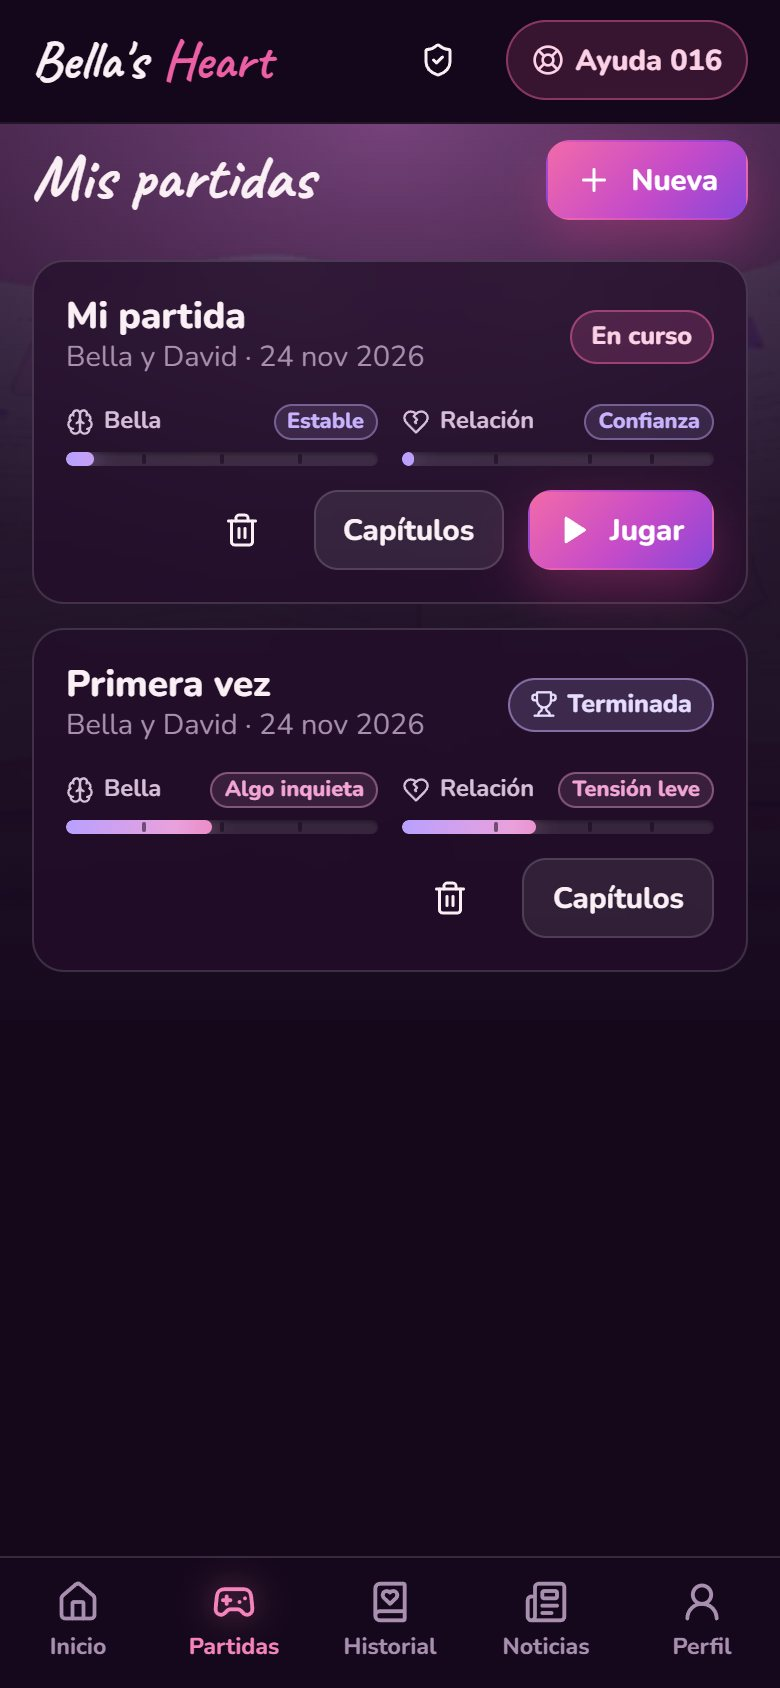
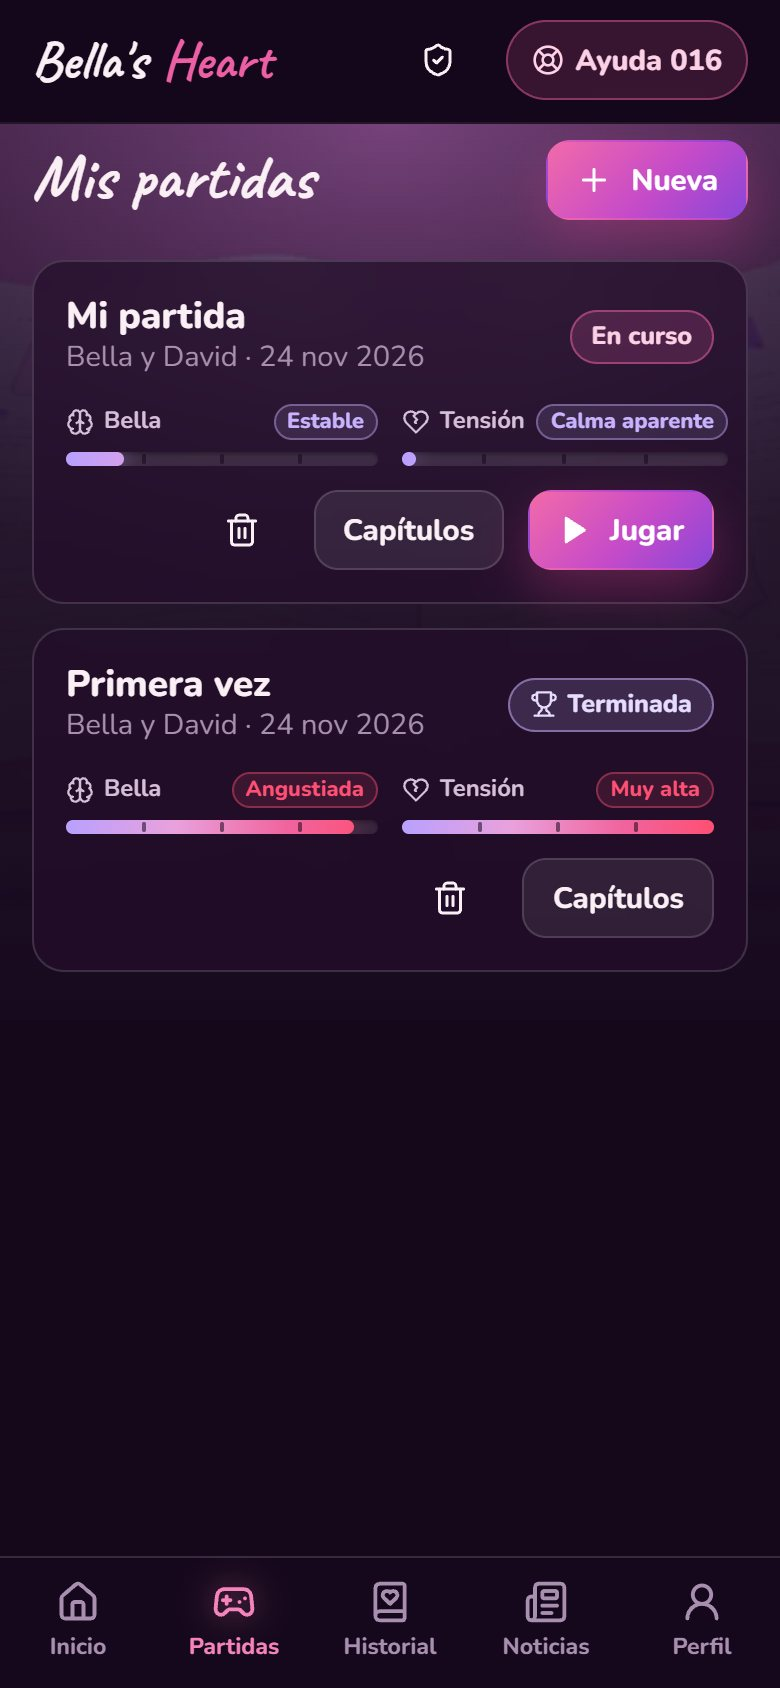
Ramas según cómo juega Bella y final según su malestar
- Migración 004: intercambia las ramas de los capítulos 6-8 (protegerse lleva a 6.1/7.1/8.1, ceder a 6.4/7.4/8.4) y el final pasa a depender del malestar de Bella (nueva columna branch_metric y función branch_state).
- La barra «Relación» pasa a «Tensión con David» (Calma aparente, Tensión leve, Tensión alta, Muy alta).
- README y capturas actualizados; caché de la historia en v3.

diff --git a/src/components/StateMeters.tsx b/src/components/StateMeters.tsx
@@ -11,8 +11,8 @@ import {
 } from '../lib/states';
 
 /**
- * Cómo está Bella y cómo está la relación. Más relleno = peor
- * (en el juego original, los puntos suman malestar y tensión).
+ * Malestar de Bella y tensión con David. Más relleno = más malestar o más choque.
+ * La tensión sube también cuando Bella pone límites: no es «peor» en sí misma.
  * El relleno va de lavanda a frambuesa y las marcas indican dónde cambia el estado.
  */
 export function StateMeters({ pointsM, pointsR, compact }: { pointsM: number; pointsR: number; compact?: boolean }) {
@@ -20,7 +20,13 @@ export function StateMeters({ pointsM, pointsR, compact }: { pointsM: number; po
   const rel = RELATION_INFO[relationState(pointsR)];
   const items = [
     { key: 'm', icon: <Brain size={compact ? 14 : 17} />, title: 'Bella', info: psych, value: meterPercent(pointsM, PSYCH_THRESHOLDS) },
-    { key: 'r', icon: <HeartCrack size={compact ? 14 : 17} />, title: 'Relación', info: rel, value: meterPercent(pointsR, RELATION_THRESHOLDS) },
+    {
+      key: 'r',
+      icon: <HeartCrack size={compact ? 14 : 17} />,
+      title: compact ? 'Tensión' : 'Tensión con David',
+      info: rel,
+      value: meterPercent(pointsR, RELATION_THRESHOLDS),
+    },
   ];
   return (
     <div className={`meters ${compact ? 'meters-compact' : ''}`}>

diff --git a/src/lib/states.ts b/src/lib/states.ts
@@ -42,11 +42,15 @@ export const PSYCH_INFO: Record<PsychState, StateInfo> = {
   DISTRESSED: { label: 'Angustiada', short: 'Angustiada', color: LEVEL_COLORS[3], level: 3 },
 };
 
+/**
+ * Tensión con David: cuánto choca Bella con él. Sube cuando ella pone límites o se protege,
+ * así que no mide lo «sana» que es la relación (eso lo dice el malestar de Bella).
+ */
 export const RELATION_INFO: Record<RelationState, StateInfo> = {
-  CONFIDENT: { label: 'Confianza', short: 'Confianza', color: LEVEL_COLORS[0], level: 0 },
-  LOW_TENSION: { label: 'Tensión leve', short: 'Tensión leve', color: LEVEL_COLORS[1], level: 1 },
-  HIGH_TENSION: { label: 'Tensión alta', short: 'Tensión alta', color: LEVEL_COLORS[2], level: 2 },
-  CRITICAL: { label: 'Crítica', short: 'Crítica', color: LEVEL_COLORS[3], level: 3 },
+  CONFIDENT: { label: 'Calma aparente', short: 'Calma', color: LEVEL_COLORS[0], level: 0 },
+  LOW_TENSION: { label: 'Tensión leve', short: 'Leve', color: LEVEL_COLORS[1], level: 1 },
+  HIGH_TENSION: { label: 'Tensión alta', short: 'Alta', color: LEVEL_COLORS[2], level: 2 },
+  CRITICAL: { label: 'Muy alta', short: 'Muy alta', color: LEVEL_COLORS[3], level: 3 },
 };
 
 /** En la barra, cada estado ocupa una cuarta parte: las marcas quedan al 25 %, 50 % y 75 %. */

diff --git a/src/pages/Play.tsx b/src/pages/Play.tsx
@@ -427,7 +427,7 @@ function EndCard({ game }: { game: Game }) {
         <Trophy size={40} color="var(--warn)" style={{ margin: '0 auto' }} />
         <h2 className="title-lg" style={{ textAlign: 'center' }}>Fin de la historia</h2>
         <p className="muted" style={{ textAlign: 'center' }}>
-          Bella termina <strong style={{ color: psych.color }}>{psych.label.toLowerCase()}</strong> y la relación en estado{' '}
+          Bella termina <strong style={{ color: psych.color }}>{psych.label.toLowerCase()}</strong>. Tensión con David:{' '}
           <strong style={{ color: rel.color }}>{rel.label.toLowerCase()}</strong>. Cada decisión cuenta: en la vida real, reconocer
           las señales a tiempo también.
         </p>

diff --git a/src/pages/NewGame.tsx b/src/pages/NewGame.tsx
@@ -77,7 +77,7 @@ export function StoryDetail() {
         <div className="stack">
           <p>{story.description}</p>
           <p className="faint">
-            <BookOpen size={15} style={{ verticalAlign: '-3px' }} /> Introducción y capítulos con distintos caminos según cómo evolucione la relación.
+            <BookOpen size={15} style={{ verticalAlign: '-3px' }} /> Introducción y capítulos con distintos caminos según tus decisiones.
           </p>
         </div>
         <form className="form" onSubmit={submit}>

diff --git a/src/pages/Historial.tsx b/src/pages/Historial.tsx
@@ -17,7 +17,7 @@ export function HistoryList() {
       <Backdrop src={BACKDROPS.history} />
       <PageHead title="Historial" />
       <p className="muted">
-        Revisa las decisiones de cada partida y cuáles hicieron crecer el malestar de Bella o la tensión en la relación.
+        Revisa las decisiones de cada partida y cuáles hicieron crecer el malestar de Bella o la tensión con David.
       </p>
       {loading && <Spinner />}
       {error && <div className="alert alert-error">{error}</div>}

diff --git a/src/lib/story.ts b/src/lib/story.ts
@@ -48,8 +48,8 @@ export function indexStory(raw: StoryData): Story {
 }
 
 const memory = new Map<string, Promise<Story>>();
-// v2: puntuación nueva de las opciones (migración 003)
-const CACHE_PREFIX = 'bh-story-v2:';
+// v3: ramas de los capítulos 6-9 reordenadas (migración 004)
+const CACHE_PREFIX = 'bh-story-v3:';
 
 /**
  * Descarga la historia completa (capítulos, escenas, diálogos y opciones) en una sola llamada.

diff --git a/README.md b/README.md
@@ -22,10 +22,16 @@ El objetivo es **ayudar a reconocer las señales de una relación tóxica** (con
 
 ### Cómo se juega
 
-- **Cada decisión cuenta.** Las opciones suman malestar a Bella y tensión a la relación. Dos indicadores muestran en todo momento cómo está ella (*Estable → Algo inquieta → Ansiosa → Angustiada*) y cómo está la relación (*Confianza → Tensión leve → Tensión alta → Crítica*). Cuanto más rosa intenso, peor.
+- **Cada decisión cuenta.** Dos indicadores muestran en todo momento cómo está Bella (*Estable → Algo inquieta → Ansiosa → Angustiada*) y la tensión con David (*Calma aparente → Tensión leve → Tensión alta → Muy alta*).
+  - Ceder, justificarle, culparse o aislarse **aumenta el malestar** de Bella.
+  - Pedir ayuda, mantener a sus amistades, cuidarse o reconocer una señal de alarma **lo reduce**.
+  - Poner límites o enfrentarse a David **sube la tensión**: la calma no siempre es buena señal.
 - **Algunas respuestas solo aparecen** según el estado emocional de Bella, igual que en la vida real no siempre tenemos fuerzas para contestar de la misma manera.
-- **La historia se ramifica.** Tras la introducción y los capítulos 1 a 5, el estado de la relación decide qué versión de los capítulos 6, 7, 8 y del final vivirás. Hay cuatro caminos distintos.
-- **Al terminar**, el historial te muestra qué decisiones aumentaron el malestar o la tensión, para reflexionar sobre ellas.
+- **La historia se ramifica.** Tras la introducción y los capítulos 1 a 5, tus decisiones eligen qué versión de los capítulos 6, 7 y 8 vivirás. Hay cuatro caminos:
+  - Si Bella se protege y planta cara, la tensión crece y ella acaba tomando distancia.
+  - Si cede para evitar conflictos, todo parece tranquilo mientras el control de David se va cerrando sobre ella.
+- **El final depende del malestar de Bella.** Va desde salir de la relación con apoyo hasta el desenlace más grave, con dos finales intermedios.
+- **Al terminar**, el historial te muestra qué decisiones aumentaron o redujeron el malestar y la tensión, para reflexionar sobre ellas.
 
 ## Capturas
 
@@ -81,7 +87,7 @@ flowchart LR
 
 - **Frontend:** [React](https://react.dev/) + [TypeScript](https://www.typescriptlang.org/) + [Vite](https://vite.dev/), con [vite-plugin-pwa](https://vite-pwa-org.netlify.app/) para el manifest y el *service worker*. La historia completa se descarga en una sola petición y se guarda en el dispositivo, así pasar de un diálogo a otro es instantáneo.
 - **Servidor:** una función de [Vercel](https://vercel.com/) (`api/index.ts`, código en `server/`). Contraseñas con bcrypt, sesión en cookie `HttpOnly` firmada, protección CSRF, límite de intentos de inicio de sesión y control de acceso: cada jugadora solo ve y modifica sus propios datos.
-- **Base de datos:** [Neon](https://neon.tech/) (PostgreSQL). La lógica de la partida (sumar puntos, avanzar escena, desbloquear el capítulo según la relación…) vive en funciones SQL, así el progreso siempre es coherente aunque se juegue desde varios dispositivos.
+- **Base de datos:** [Neon](https://neon.tech/) (PostgreSQL). La lógica de la partida (sumar puntos, avanzar escena, elegir la rama del capítulo siguiente…) vive en funciones SQL, así el progreso siempre es coherente aunque se juegue desde varios dispositivos.
 - **Ilustraciones:** las originales del juego convertidas a WebP, de ~100 MB a ~4,5 MB sin pérdida visible.
 
 ```
